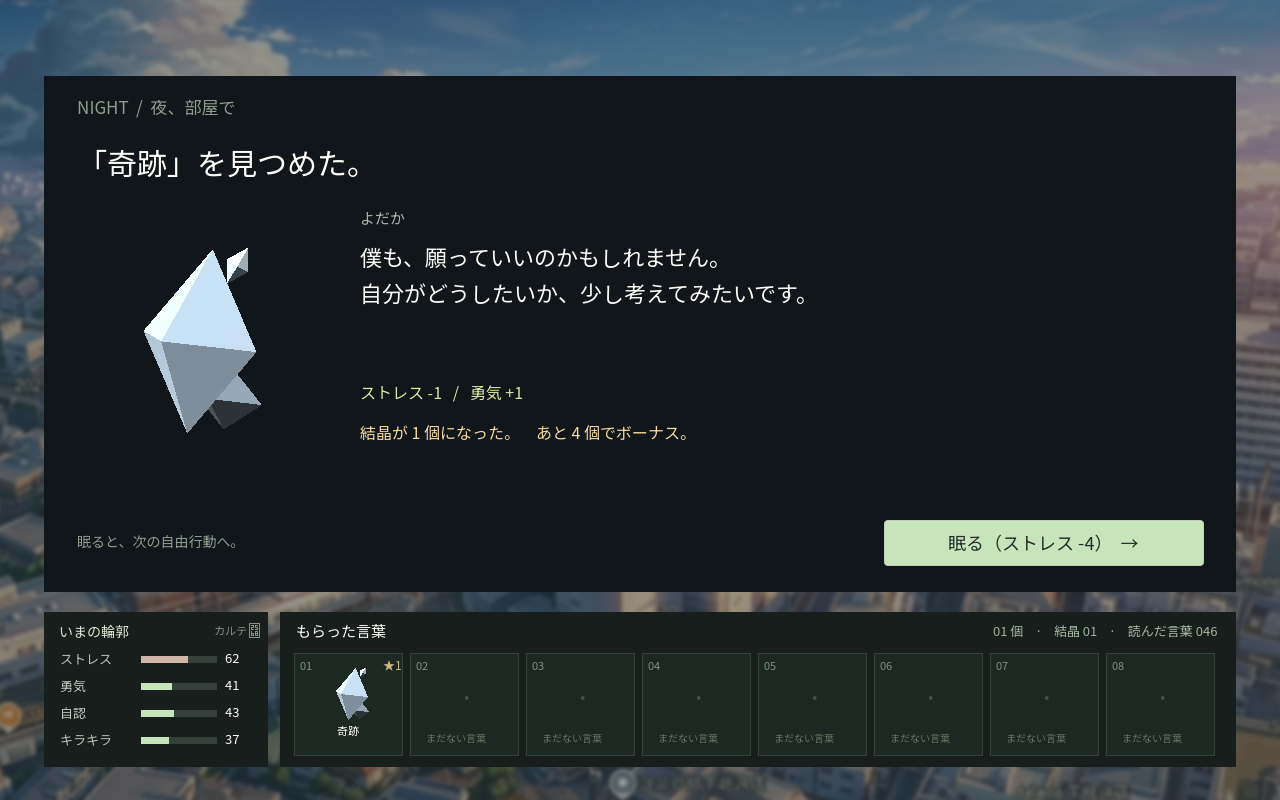
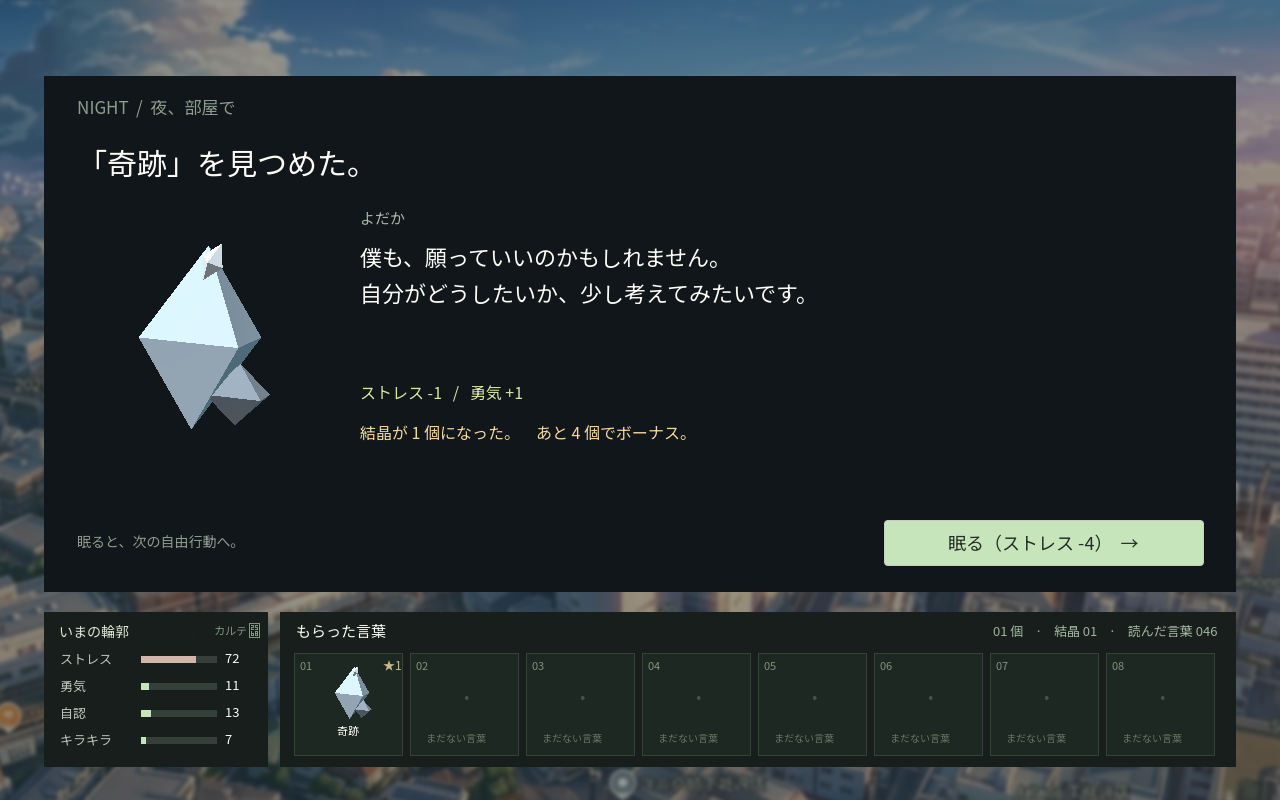
docs(verification): record the six-word map playthrough and colored word lights
Claude-Session: https://claude.ai/code/session_01JCkUzoRkSLE8edm6bv5gxi

Changed region(s): [[0.0938, 0.3125, 0.2188, 0.5312], [0.25, 0.8438, 0.3125, 0.9062]]

diff --git a/docs/verification.md b/docs/verification.md
@@ -1,5 +1,15 @@
 # 検証結果
 
+## 2026-09-29 ことばの地図・6語に整理・初期値の変更
+
+- `make lint` 成功。`make test` はpytest 4件、Godot 4,512チェック成功。
+- 言葉を6語に整理（削除：えらい・無駄じゃなかった・法月さんのせいじゃない・キラキラ・かわいい）。寿司・なきごえは気づき付きの行き先として残し、気づきの変動幅は全て±1。初期値 `[70, 5, 5, 5]`、勇気の必要値15（14で拒否・15で通過を確認）。
+- カルテの「ことばの地図」：言葉ごとに色つきの光が広がり（結晶で拡大）、中心とつながる。忘れた言葉は燠火、未出会いの言葉は暗い点。シード保存で4語＋忘却1語の描画を確認。
+- 3方針の通しプレイ：残った言葉1〜5語、忘れた言葉0〜4語、休息0〜2回。ストレス初期70のため序盤に休息が必要になる方針がある。
+- Chromium（Playwright、`build/web` をローカル配信）で通しプレイを完走：自由行動12回・夜16回・見つめ16回、残った言葉1語・忘れた言葉3語。最終ステータス [49, 55, 24, 18]。実行時エラー0件。
+
+![ことばの地図](screenshots/karte-map.png)
+
 ## 2026-09-29 夜の効果±1・結晶5個ボーナス・忘却は未見の言葉だけ
 
 - `make lint` 成功。`make test` はpytest 4件、Godot 4,656チェック成功。
